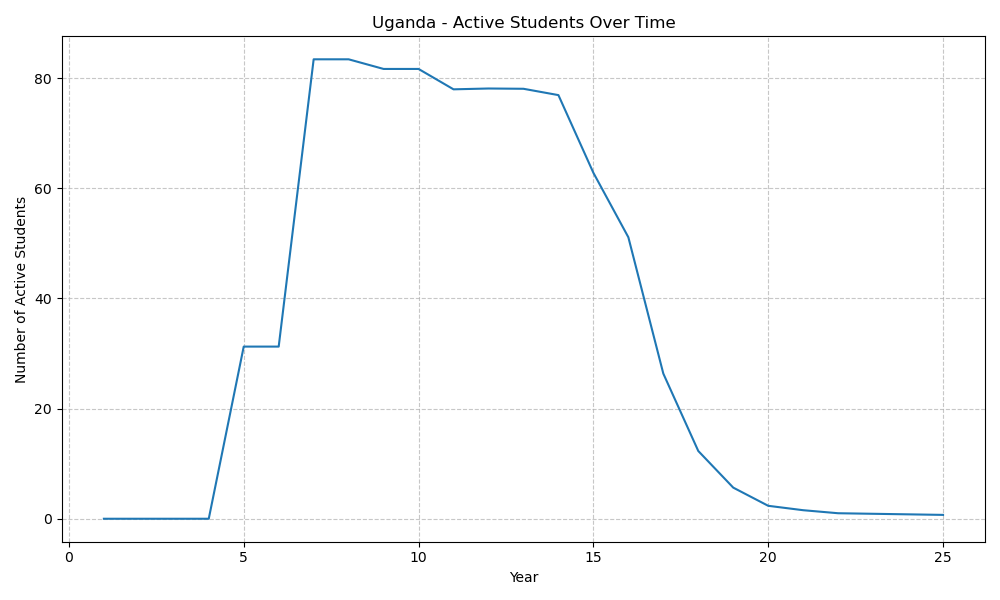
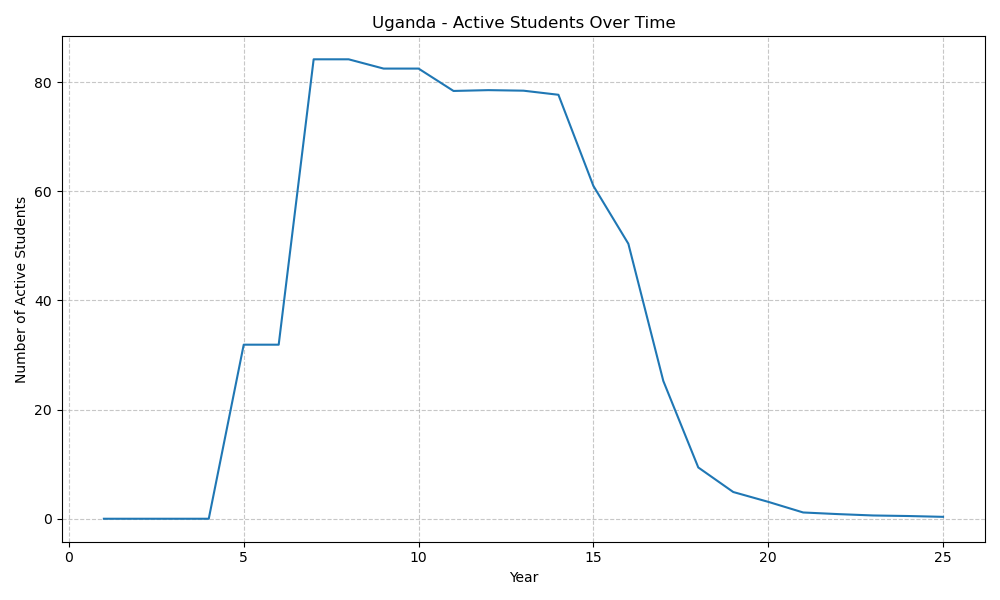
Enhance student creation in simple_isa_model.py by adding an optional graduation delay parameter to the _create_students function. Update student initialization to apply graduation delays based on degree type. Update binary files to reflect recent changes.

diff --git a/simple_isa_model.py b/simple_isa_model.py
@@ -1072,7 +1072,7 @@ def run_simple_simulation(
         )
         
         # Assign degrees to each student
-        students = _create_students(num_students, degrees, probs, num_years)
+        students = _create_students(num_students, degrees, probs, num_years, apply_graduation_delay)
         
         # Run the simulation and store results
         sim_results = simulate_simple(
@@ -1528,7 +1528,8 @@ def _create_students(
     num_students: int, 
     degrees: List[Degree], 
     probs: List[float], 
-    num_years: int
+    num_years: int,
+    apply_graduation_delay: bool = False
 ) -> List[Student]:
     """Helper function to create and assign degrees to students."""
     # Assign degrees to each student
@@ -1538,7 +1539,14 @@ def _create_students(
     # Create student objects
     students = []
     for i in range(num_students):
-        students.append(Student(degree_labels[i], num_years))
+        student = Student(degree_labels[i], num_years)
+        if apply_graduation_delay:
+            # Apply graduation delay based on degree type
+            student.graduation_year = _calculate_graduation_delay(
+                student.degree.years_to_complete,
+                student.degree.name
+            )
+        students.append(student)
     
     return students
 
